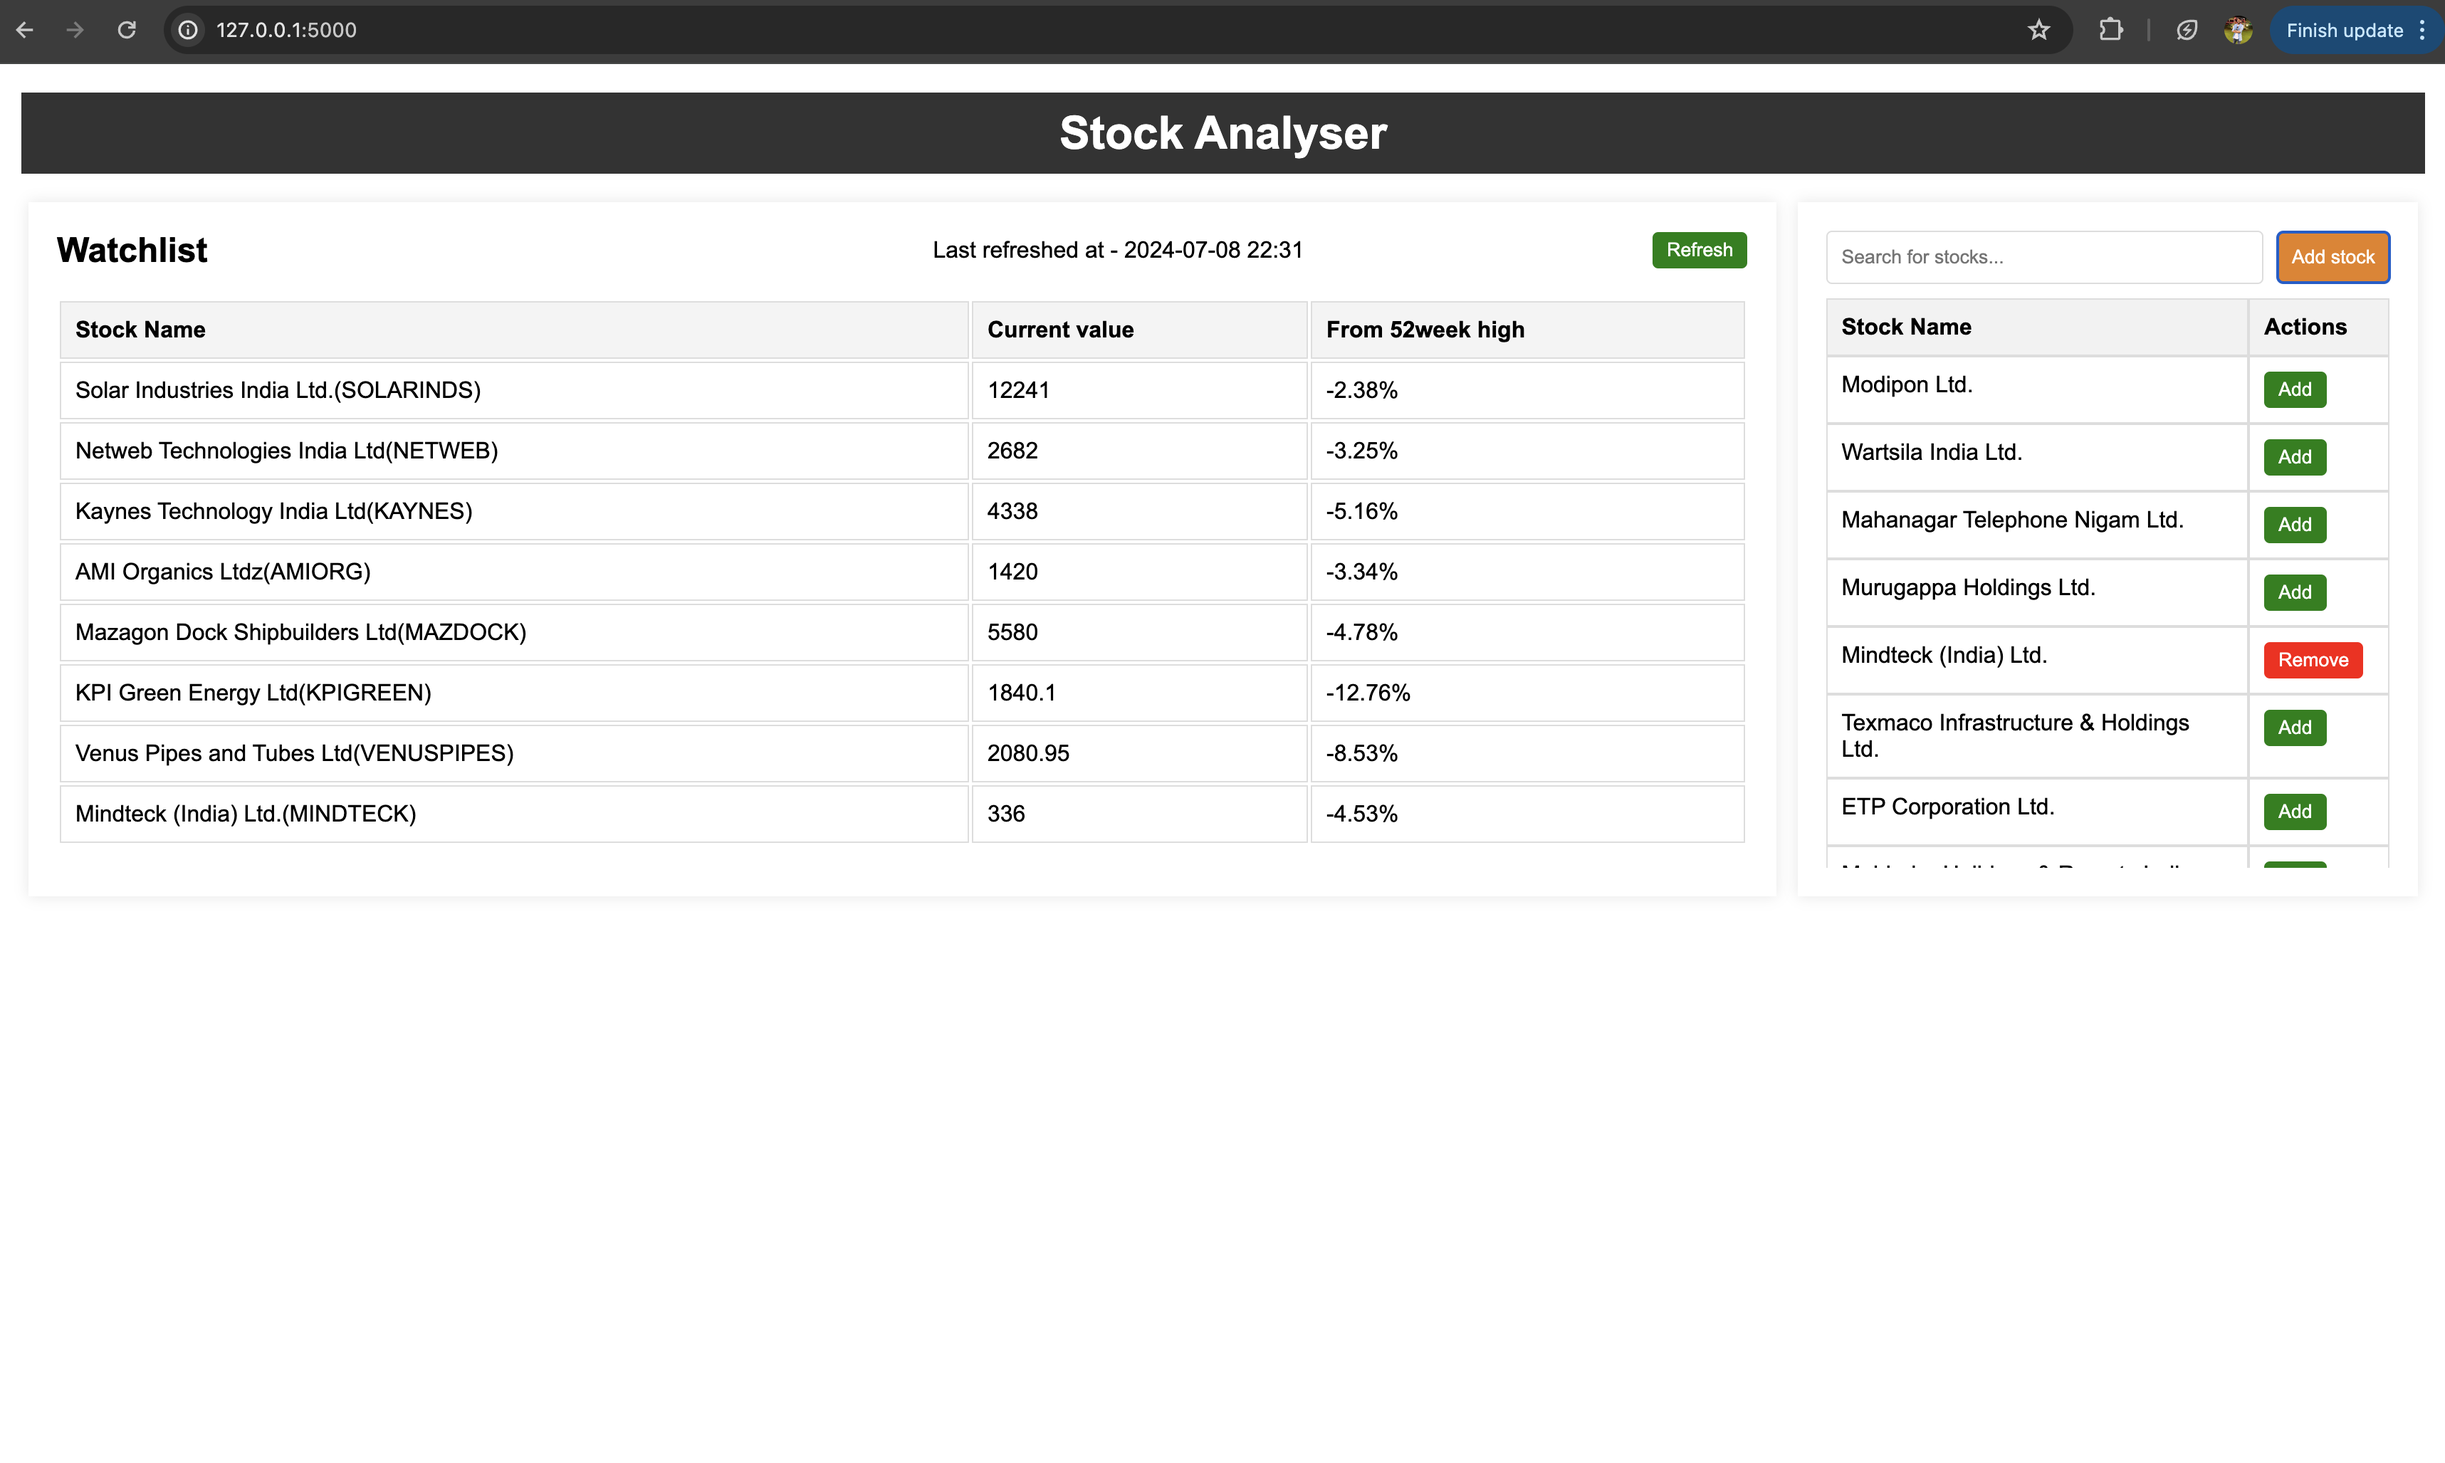
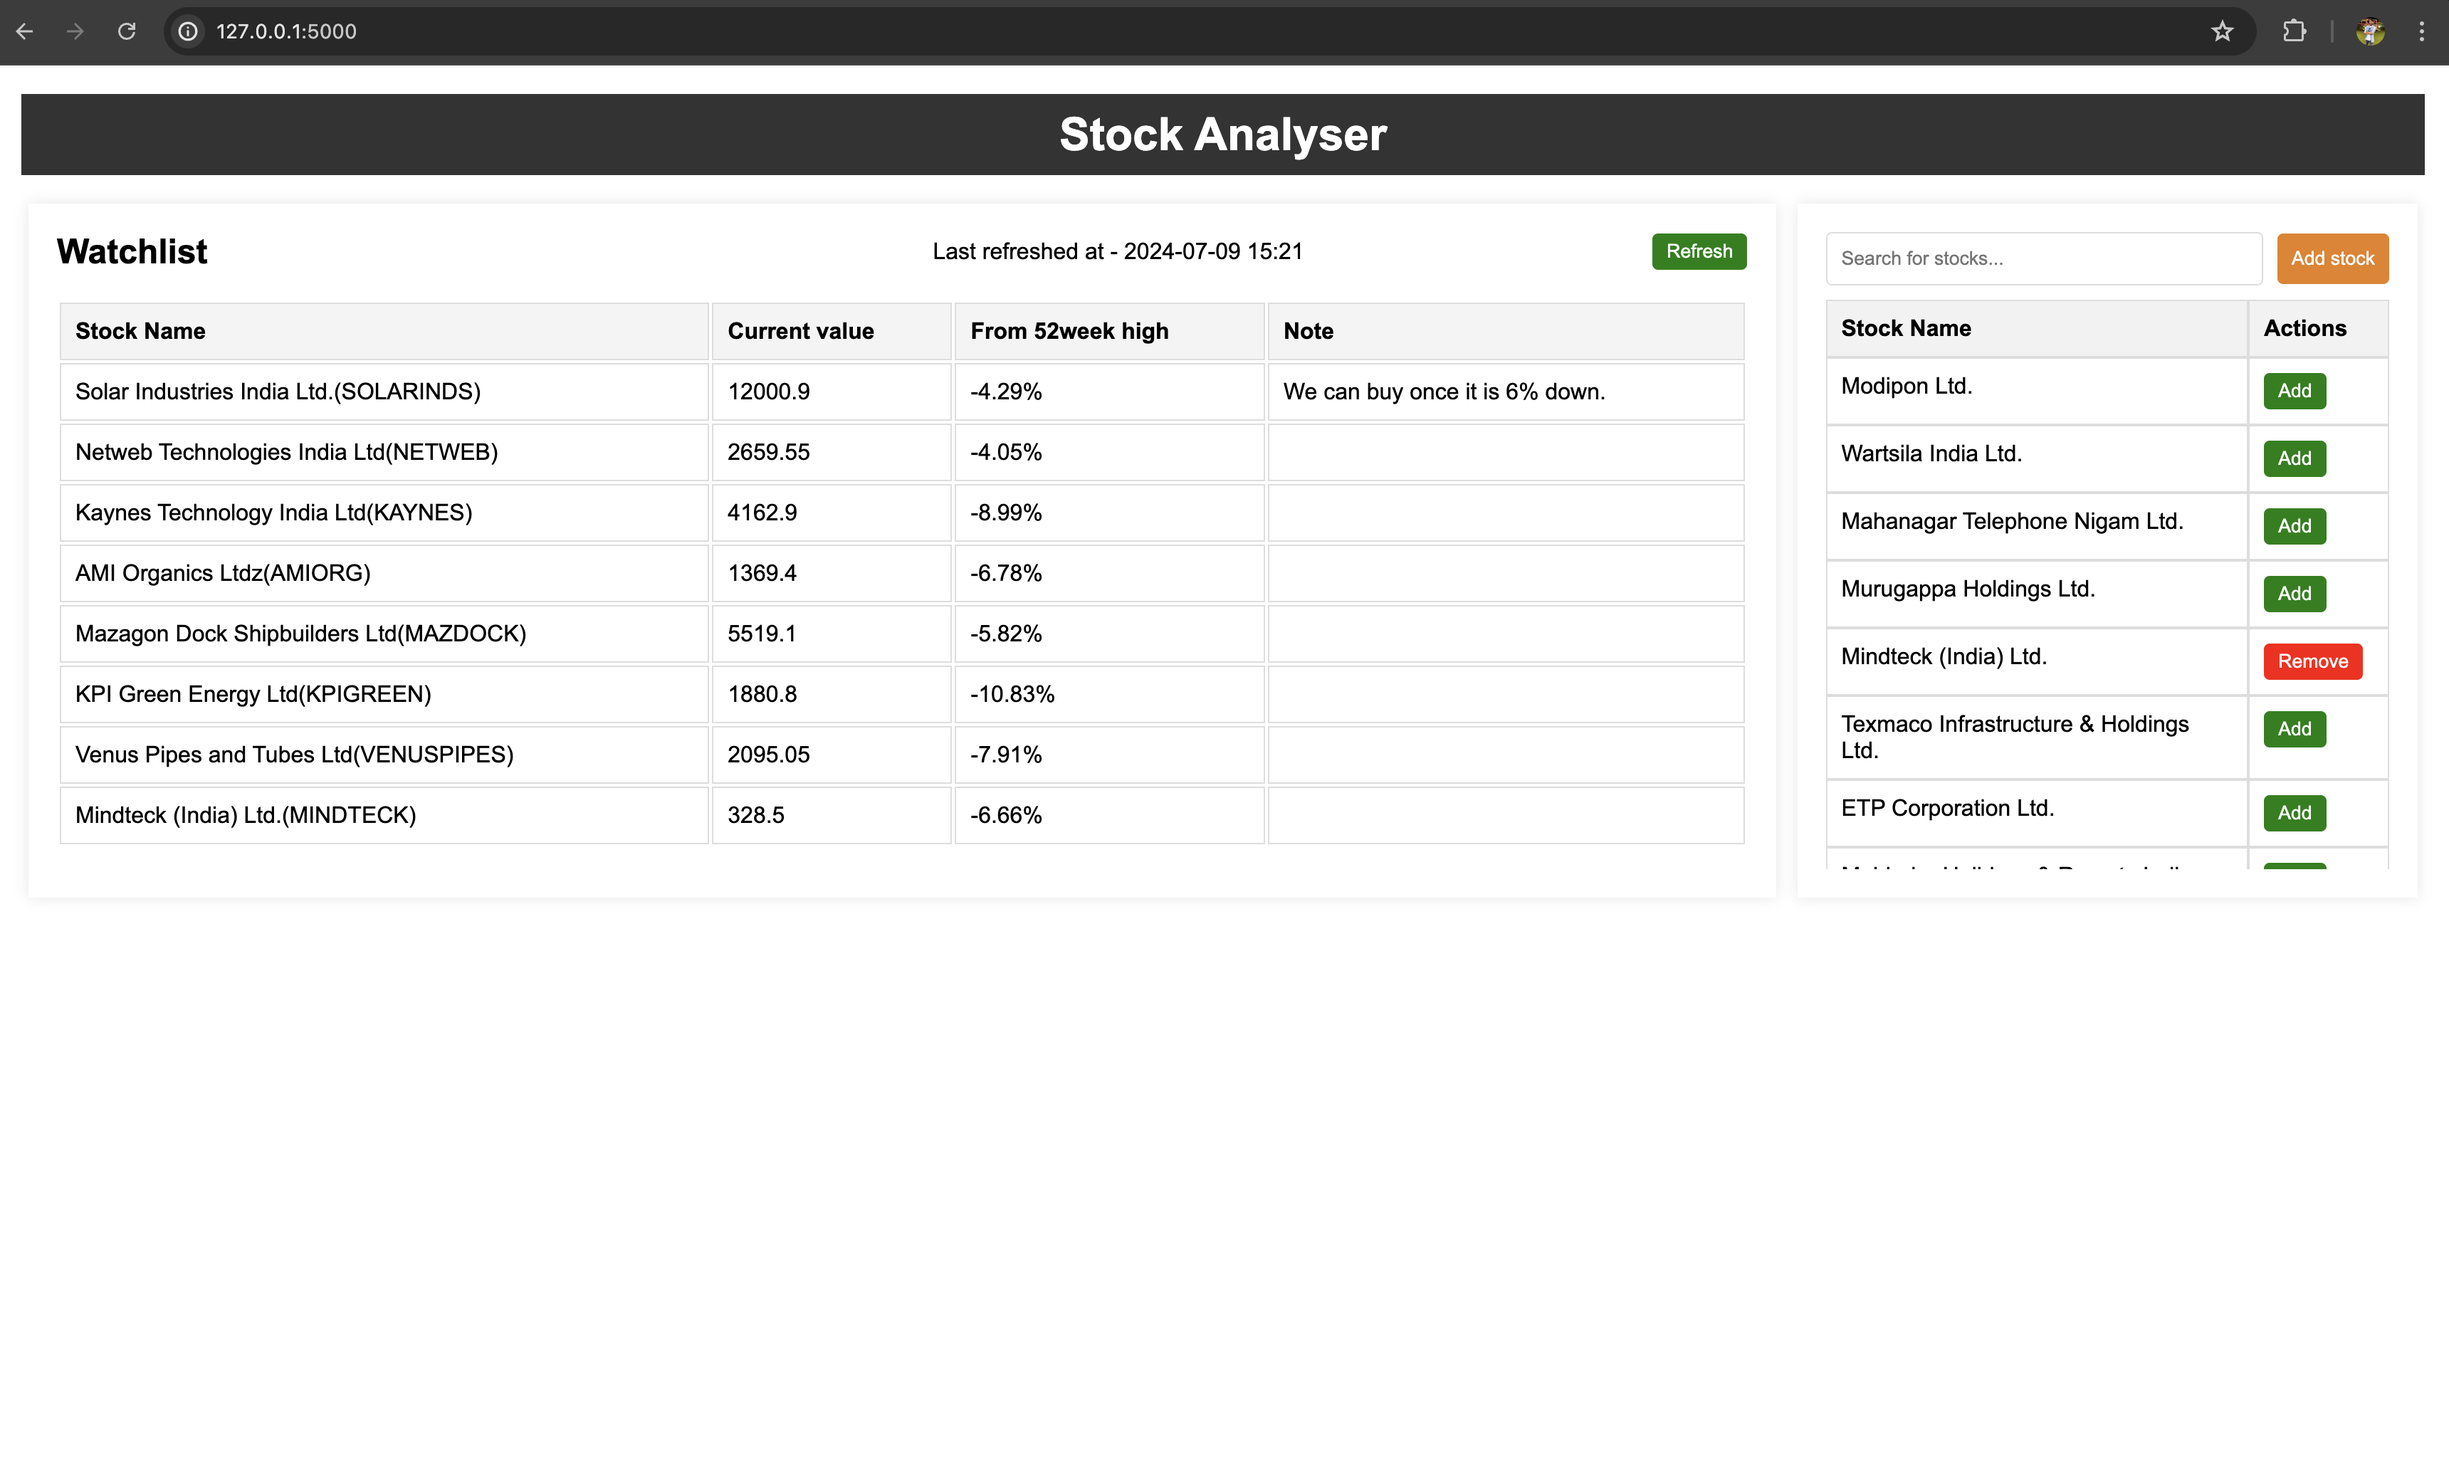
1. Adding note feature to watchlist stock

diff --git a/static/script.js b/static/script.js
@@ -11,7 +11,7 @@ document.addEventListener('DOMContentLoaded', () => {
     const addStockDialogForm = document.getElementById('add_stock_dialog_form');
 
 
-    //const base_url = 'tender-nightingale-keesha-36143a60.koyeb.app/'
+    //const base_url = 'https://tender-nightingale-keesha-36143a60.koyeb.app'
     //const base_url = 'https://stockanalyserengine.onrender.com'
     const base_url = 'http://127.0.0.1:5000'
 
@@ -105,7 +105,18 @@ document.addEventListener('DOMContentLoaded', () => {
             tr.innerHTML = `<td>${stock.stock_name}(${stock.stock_ticker})</td>
                 <td>${stock.current_value}</td>
                 <td>${stock.percentage_from_52week_high}%</td>
+                <td>${stock.note}</td>
                 `;
+            const noteCell = tr.querySelector('td:last-child');
+            noteCell.style.cursor = 'pointer';
+            noteCell.onclick = function () {
+                var currentText = this.innerText;
+                var newText = prompt("Update note:", currentText);
+                if (newText !== null) { // Check if Cancel was not pressed
+                    this.innerText = newText;
+                    updateStockNote(stock.stock_ticker, newText);
+                }
+            };
             // const removeButton = document.createElement('button');
             // removeButton.textContent = 'Remove';
             // removeButton.classList.add('remove');
@@ -262,10 +273,40 @@ document.addEventListener('DOMContentLoaded', () => {
             } else {
                 console.error('Invalid data structure:', data);
                 loader("hide")
-                if(data.status && data.status.message)
+                if (data.status && data.status.message)
                     alert(data.status.message);
                 else
                     alert("Stock added successfully.");
+            }
+        } catch (error) {
+            loader("hide")
+            return console.error('Error removing stock from watchlist:', error);
+        }
+    }
+
+    async function updateStockNote(stockTicker, stockNote) {
+        loader("show")
+        try {
+            const requestBody = JSON.stringify({ stock_ticker: stockTicker, note: stockNote });
+            const url = `${base_url}/update_note`;
+            const response = await fetch(url,
+                {
+                    method: 'POST',
+                    headers: {
+                        'Content-Type': 'application/json',
+                    },
+                    body: requestBody
+                });
+            const data = await response.json();
+            if (data && data.response && data.response.note_updated) {
+                noteUpdated = data.response.note_updated;
+                alert("Note updated successfully.");
+                loader("hide")
+            } else {
+                console.error('Invalid data structure:', data);
+                loader("hide")
+                if (data.status && data.status.message)
+                    alert(data.status.message);
             }
         } catch (error) {
             loader("hide")

diff --git a/templates/index.html b/templates/index.html
@@ -29,6 +29,7 @@
                             <th>Stock Name</th>
                             <th>Current value</th>
                             <th>From 52week high</th>
+                            <th>Note</th>
                         </tr>
                     </thead>
                     <tbody>

diff --git a/app.py b/app.py
@@ -28,9 +28,9 @@ def diff_from_52_week_high():
     api_key = request.args.get('api_key')
     datatype = request.args.get('datatype')
     current_value = stock_utils.get_current_stock_val(stock_ticker, api_key)
-    high_value = stock_utils.get_52_week_high_value(stock_ticker, api_key) 
+    high_value = stock_utils.get_52_week_high_value(stock_ticker, api_key)
     percentage_difference = ((current_value - high_value) / high_value) * 100
-    cursor = stock_utils.updateWatchlistData(WatchlistStock(stock_ticker, "",current_value, percentage_difference))
+    cursor = stock_utils.updateWatchlistData(WatchlistStock(stock_ticker, "",current_value, percentage_difference, ""))
     updateSuccessful = cursor.matched_count > 0
     if(datatype == 'html'):
         return f'<h1>{stock_ticker} is {percentage_difference} % down from its 52 week high </h1>'
@@ -65,7 +65,7 @@ def get_stocks_list():
 @app.route('/add_stock', methods=['POST'])
 def add_stock_to_dashboard():
     data = request.get_json()
-    stockObj = WatchlistStock(data.get('stock_ticker', ''), data.get('stock_name', ''), 0.0, 0.0)
+    stockObj = WatchlistStock(data.get('stock_ticker', ''), data.get('stock_name', ''), 0.0, 0.0, '')
     cursor = stock_utils.addStockToDashboard(stockObj)
     isAdded = cursor.acknowledged
     if(isAdded):
@@ -116,6 +116,22 @@ def add_new_stock_to_db():
             "status": apiStatus(True, f"An error occurred: {str(e)}", 500)
         }
     return jsonify(response)
+
+@app.route('/update_note', methods=['POST'])
+def update_stock_note():
+    data = request.get_json()
+    stockObj = WatchlistStock(data.get('stock_ticker', ''), '', 0.0, 0.0, data.get('note', ''))
+    cursor = stock_utils.updateStockNote(stockObj)
+    isUpdated = cursor.acknowledged
+    if(isUpdated):
+        response = {"response": {"note_updated": isUpdated}, "status" : apiStatus(False, "API call Succesful", 200)}
+    else:
+        response = {"response": {"note_updated": isUpdated}, "status" : apiStatus(True, "API call Failed", 1)}
+    return jsonify(response)
+
+@app.route('/run_script')
+def run_script():
+    return stock_utils.runScript()
 
 @app.route('/')
 def home():

diff --git a/utils/db_utils.py b/utils/db_utils.py
@@ -64,7 +64,7 @@ def getDashboardStocksFromDb():
     watchlist = []
     cursor = db.tracking_stocks.find()
     for document in cursor:
-        stock = WatchlistStock(document['stock_ticker'], document['stock_name'], document['current_value'], document['percentage_from_52week_high'])
+        stock = WatchlistStock(document['stock_ticker'], document['stock_name'], document['current_value'], document['percentage_from_52week_high'], document['note'])
         watchlist.append(stock)
     print(watchlist)
     return watchlist
@@ -96,3 +96,13 @@ def addNewStockToDb(stock : Stock):
     }
     cursor = db.stocks.insert_one(document)
     return cursor
+
+def runMongoDbScript():
+    db = get_user_db()
+    # return db.tracking_stocks.update_many({}, {'$set': {'note': ''}})
+
+def updateStockNoteInDb(watchlistStock : WatchlistStock):
+    db = get_user_db()
+    filter = { 'stock_ticker': watchlistStock.stock_ticker }
+    update = { '$set': { 'note': watchlistStock.note } }
+    return db.tracking_stocks.update_one(filter, update)

diff --git a/utils/stock_business_logic.py b/utils/stock_business_logic.py
@@ -1,5 +1,5 @@
 import requests
-from utils.db_utils import getStocksList, addStockToDashboardDB, getDashboardStocksFromDb, removeStockFromDashboardDB, updateWatchlistDataInDb, updateCurrentValueInDb, addNewStockToDb
+from utils.db_utils import getStocksList, addStockToDashboardDB, getDashboardStocksFromDb, removeStockFromDashboardDB, updateWatchlistDataInDb, updateCurrentValueInDb, addNewStockToDb, runMongoDbScript, updateStockNoteInDb
 from bs4 import BeautifulSoup
 
 def get_52_week_high_value(stock_ticker, api_key):
@@ -102,4 +102,12 @@ def updateCurrentValue(watchlistStock):
 
 def addNewStock(stock):
     cursor = addNewStockToDb(stock)
+    return cursor
+
+def runScript():
+    cursor = runMongoDbScript()
+    return cursor
+
+def updateStockNote(watchlistStock):
+    cursor = updateStockNoteInDb(watchlistStock)
     return cursor

diff --git a/model/watchlistStock.py b/model/watchlistStock.py
@@ -1,6 +1,7 @@
 class WatchlistStock():
-    def __init__(self, stock_ticker, stock_name, current_value, percentage_from_52week_high):
+    def __init__(self, stock_ticker, stock_name, current_value, percentage_from_52week_high, note):
         self.stock_ticker = stock_ticker
         self.stock_name = stock_name
         self.current_value = current_value
         self.percentage_from_52week_high = percentage_from_52week_high
+        self.note = note

diff --git a/README.md b/README.md
@@ -10,6 +10,7 @@ This project was created to learn Full-Stack development, focusing initially on 
 ## _Features_
 - Add or Remove Stocks of your interest to Watchlist.
 - Keep track of and analyze data for the stocks in your watchlist.
+- Add notes to remember key points
 - Seamlessly integrate new stocks into the database when they are not already present.
 
 ## _Tech Stack_
@@ -31,11 +32,13 @@ This project was created to learn Full-Stack development, focusing initially on 
 ## _Api Documentation_
 - Link - [Documentation](https://github.com/Keertiraj-DJ/StockAnalyserEngine/blob/main/ApiDocument.txt)
 
+## _Data source_
+- Web scraping - [https://www.google.com/finance/](https://www.google.com/finance/)
+
 
 ## _Demo_
 ![alt text](webinterface_home.png)
 ![alt text](webinterface_addstock.png) 
-
 
 ## _License_
 **Free Software, Yeah!**
